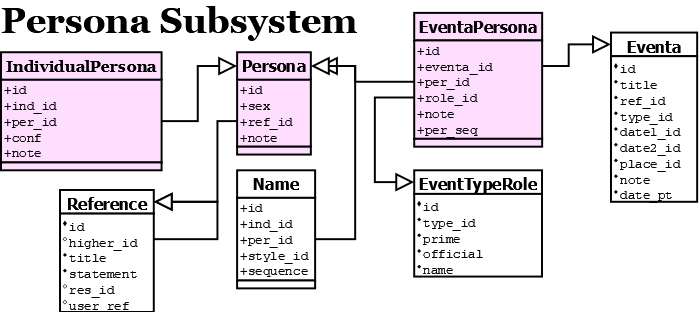
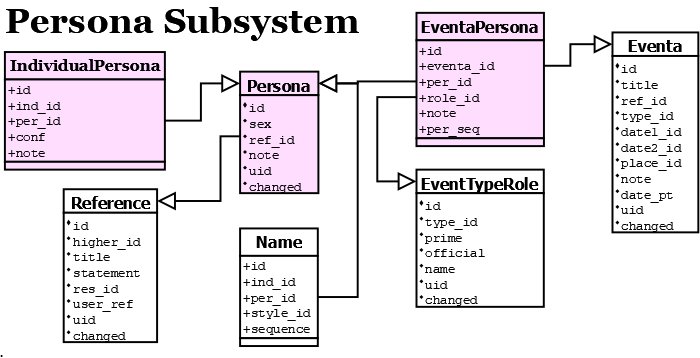
Website, update development manual database Reference sub-system diagrams.
Replace diagrams for date, media, name, persona and place sub-systems

Changed region(s): [[0.0, 0.0, 1.0, 1.0]]

diff --git a/website/dev/man/db/sub/places.htm b/website/dev/man/db/sub/places.htm
@@ -55,15 +55,15 @@
 </table>
 
 <p>
- The final Places subsystem design is currently undecided.
- It could be as simple as a text field or as complex as a digital map that can be set to any point in time.
+ The Place sub-system is currently a work in progress.
+</p>
+<p>
  The approach of TFP is to start off simple but allow allow for expansion.
  This is one area where it really helps to have some background data built into the system,
  so the design will have the exchange of local and common data (in both directions) as a key objective.
 </p>
 <p>
- For the moment, the Places subsystem will use the
- <a href="http://www.ngsgenealogy.org/cs/GenTech_Projects">GenTech</a> design
+ For the moment, the Places subsystem is based on the GenTech design
  where locations are broken down into a hierarchy of place names.
  A particular address is obtained by creating a sequence of names in a particular order.
  However, the current TFP test program is limited to a very simple format - only one PlacePartType,

diff --git a/website/dev/man/db/sub/media.htm b/website/dev/man/db/sub/media.htm
@@ -44,17 +44,12 @@
     <p class="attribute"><!-- Attr --></p>
 </blockquote>
     
-<h2>Page Under Construction</h2>
-
 <div class="diag"><img src='tfp-media.png' alt='Media Subsystem' /></div>
 
 <h2>Media</h2>
-
-<table class="basic core rfloat">
-    <tr><th colspan="3">Associate table Core Data</th></tr>
-    <tr><th>[id]</th><th>[path]</th><th></th></tr>
-    <tr><td>0</td><td></td><td>Refers to itself.</td></tr>
-</table>
+<p>
+ 
+</p>
     
     
 </div><!--id=content-->
